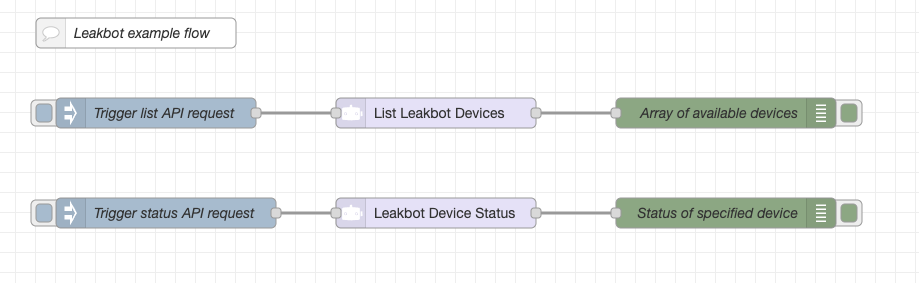
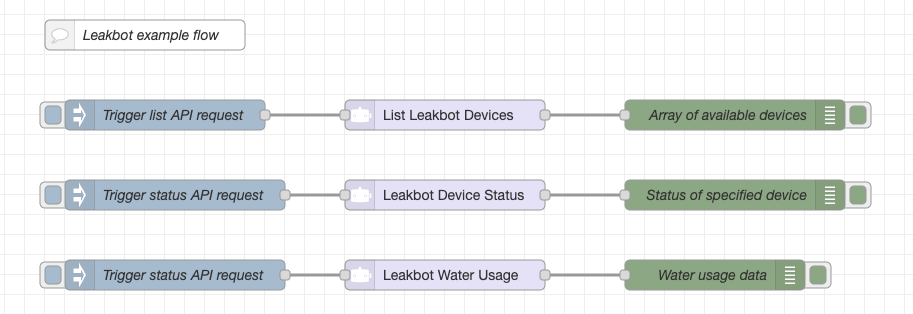
Add water usage node

diff --git a/src/nodes/leakbot-water-usage/leakbot-water-usage.html b/src/nodes/leakbot-water-usage/leakbot-water-usage.html
@@ -1,0 +1,53 @@
+<script type="text/javascript">
+  RED.nodes.registerType("leakbot-water-usage", {
+    category: "Leakbot",
+    color: "#E6E0F8",
+    icon: "leakbot.svg",
+    paletteLabel: "Leakbot Water Usage",
+    label: function () {
+      return this.name || "Leakbot Water Usage";
+    },
+    defaults: {
+      name: { value: "" },
+      credsNode: { value: "", type: "leakbot-credentials", required: true },
+      deviceId: { validate: RED.validators.number(), required: true },
+    },
+    inputs: 1,
+    outputs: 1,
+  });
+</script>
+
+<script type="text/html" data-template-name="leakbot-water-usage">
+  <div class="form-row">
+    <label for="node-input-name"><i class="fa fa-tag"></i> Name</label>
+    <input type="text" id="node-input-name" />
+  </div>
+  <div class="form-row">
+    <label for="node-input-credsNode"
+      ><i class="fa fa-globe"></i> Credentials</label
+    >
+    <input type="text" id="node-input-credsNode" />
+  </div>
+  <div class="form-row">
+    <label for="node-input-deviceId"
+      ><i class="fa fa-slideshare"></i> Device ID</label
+    >
+    <input type="text" id="node-input-deviceId" />
+  </div>
+</script>
+
+<script type="text/markdown" data-help-name="leakbot-water-usage">
+  Get the water usage data of a Leakbot device.
+
+  ### Inputs
+
+  The node disrespects any input. It will only serve as a trigger to get the status of the device.
+
+  ### Outputs
+
+  The node will output the water usage stats of the device of witch the id have been specified in the settings as a object.
+
+  ### Details
+
+  The id of the device needs to be provided. This can be found by using the List Leakbot Devices node. In the output of that node there will be a array of objects containing the devices. Each object will have a id property. This id should be used in the Device ID field of this node.
+</script>

diff --git a/src/nodes/leakbot-credentials/leakbot-credentials.html b/src/nodes/leakbot-credentials/leakbot-credentials.html
@@ -1,18 +1,18 @@
 <script type="text/javascript">
-  RED.nodes.registerType('leakbot-credentials', {
-    category: 'config',
-    color: '#E6E0F8',
+  RED.nodes.registerType("leakbot-credentials", {
+    category: "config",
+    color: "#E6E0F8",
     defaults: {
-      name: { value: '' },
+      name: { value: "" },
     },
-    icon: 'fa-filter/fa-filter',
-    paletteLabel: 'Leakbot Credentials',
+    icon: "font-awesome/fa-key",
+    paletteLabel: "Leakbot Credentials",
     label: function () {
-      return this.name || 'Leakbot Credentials';
+      return this.name || "Leakbot Credentials";
     },
     credentials: {
-      email: { type: 'text' },
-      password: { type: 'text' },
+      email: { type: "text" },
+      password: { type: "text" },
     },
   });
 </script>

diff --git a/src/nodes/leakbot-water-usage/leakbot-water-usage.js b/src/nodes/leakbot-water-usage/leakbot-water-usage.js
@@ -1,0 +1,14 @@
+const { connect } = require("@crusaider/leakbot-api");
+const {
+  makeLeakbotAPIRequestNode,
+} = require("../shared/makeLeakbotAPIRequestNode");
+
+module.exports = makeLeakbotAPIRequestNode(
+  "leakbot-water-usage",
+  async (credentials, config) => {
+    const client = await connect(credentials);
+    const deviceStatus = await client.getDeviceWaterUsage(config.deviceId);
+    const { ts, ms, ...rest } = deviceStatus;
+    return rest;
+  },
+);

diff --git a/README.md b/README.md
@@ -2,7 +2,7 @@
 
 ## Leakbot Node Red Nodes
 
-![Alt text](example-flow.png 'Example flow')
+![Alt text](example-flow.png "Example flow")
 
 ## Description
 
@@ -38,6 +38,22 @@ The node will output the status of the device of witch the id have been specifie
 
 The id of the device needs to be provided. This can be found by using the List Leakbot Devices node. In the output of that node there will be a array of objects containing the devices. Each object will have a id property. This id should be used in the Device ID field of this node.
 
+### Leakbot Water Usage
+
+Get the water usage data of a Leakbot device.
+
+#### Inputs
+
+The node disrespects any input. It will only serve as a trigger to get the status of the device.
+
+#### Outputs
+
+The node will output the water usage stats of the device of witch the id have been specified in the settings as a object.
+
+#### Details
+
+The id of the device needs to be provided. This can be found by using the List Leakbot Devices node. In the output of that node there will be a array of objects containing the devices. Each object will have a id property. This id should be used in the Device ID field of this node.
+
 ### Leakbot Credentials
 
 Stores the credentials for the Leakbot API.
@@ -49,4 +65,3 @@ Leakbot Only Allows One Login: If you use theese nodes the token your mobile app
 ## Disclaimer
 
 This is not an official Leakbot product. This is a community project and is not affiliated with Leakbot. Use at your own risk.
-
